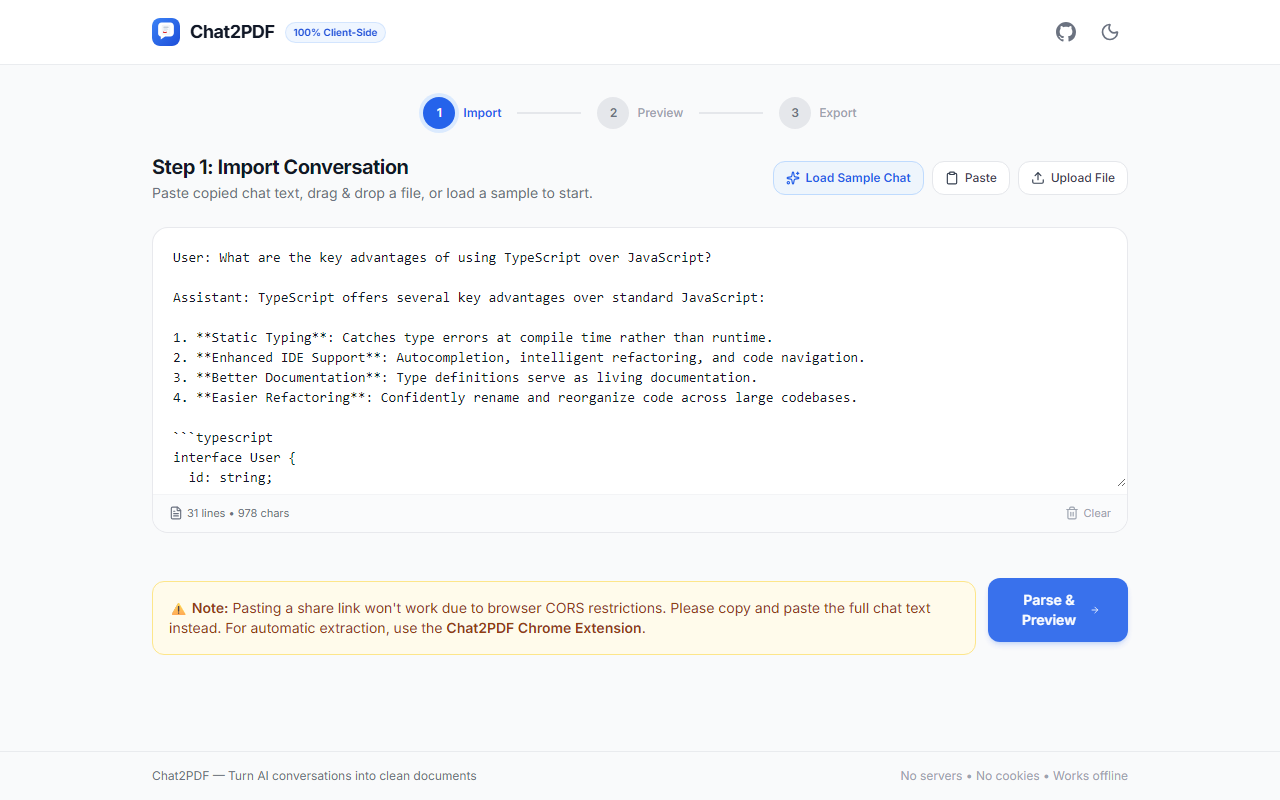
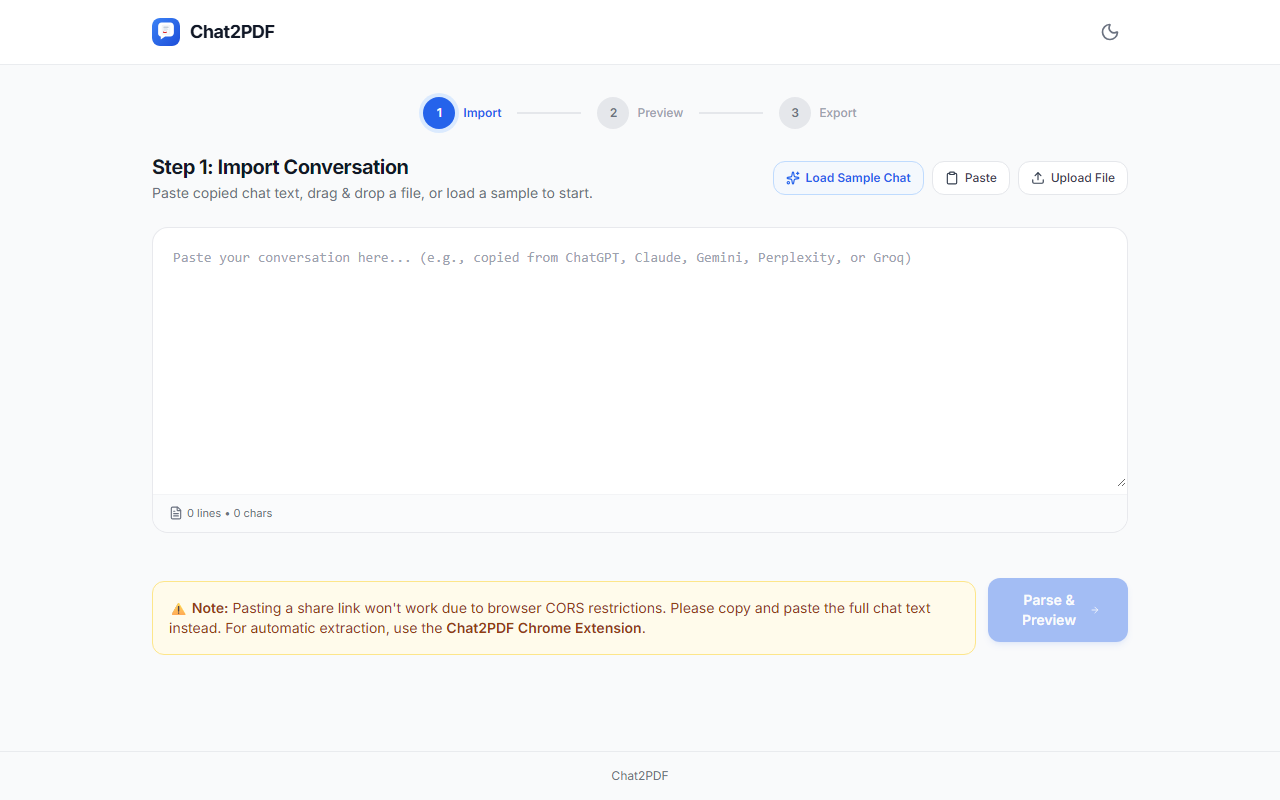
feat(ui): design system tokens and rock-solid dark mode

diff --git a/tests/capture_screenshots.ts b/tests/capture_screenshots.ts
@@ -1,0 +1,96 @@
+import { chromium } from 'playwright';
+import * as path from 'path';
+import * as fs from 'fs';
+
+async function captureScreenshots() {
+  const dir = path.resolve(process.cwd(), 'docs', 'screenshots');
+  if (!fs.existsSync(dir)) {
+    fs.mkdirSync(dir, { recursive: true });
+  }
+
+  const browser = await chromium.launch({ headless: true });
+
+  const viewports = [
+    { name: 'desktop', width: 1280, height: 800 },
+    { name: 'tablet', width: 768, height: 1024 },
+    { name: 'mobile', width: 375, height: 812 },
+  ];
+
+  for (const vp of viewports) {
+    for (const theme of ['light', 'dark']) {
+      const context = await browser.newContext({
+        viewport: { width: vp.width, height: vp.height },
+        colorScheme: theme as 'light' | 'dark',
+      });
+      const page = await context.newPage();
+
+      // Go to app
+      await page.goto('http://localhost:5173', { waitUntil: 'networkidle' });
+
+      // Apply theme if dark
+      if (theme === 'dark') {
+        await page.evaluate(() => {
+          document.documentElement.classList.add('dark');
+          document.documentElement.setAttribute('data-theme', 'dark');
+          localStorage.setItem('chat2pdf-theme', 'dark');
+        });
+        await page.waitForTimeout(200);
+      }
+
+      // Step 1: Input Step
+      await page.screenshot({
+        path: path.join(dir, `step1_input_${vp.name}_${theme}.png`),
+      });
+
+      // Load sample
+      const sampleBtn = page.locator('button:has-text("Load Sample Chat")');
+      await sampleBtn.click();
+      await page.waitForTimeout(300);
+
+      // Parse & Preview
+      const parseBtn = page.locator('button:has-text("Parse & Preview")');
+      await parseBtn.click();
+      await page.waitForTimeout(400);
+
+      // Step 2: Preview Step
+      await page.screenshot({
+        path: path.join(dir, `step2_preview_${vp.name}_${theme}.png`),
+      });
+
+      // Step 3: Export Step
+      const exportStepBtn = page.locator('button:has-text("Choose Format & Export")');
+      await exportStepBtn.click();
+      await page.waitForTimeout(400);
+
+      await page.screenshot({
+        path: path.join(dir, `step3_export_${vp.name}_${theme}.png`),
+      });
+
+      // Also standard 01, 02, 03 for README compatibility
+      if (vp.name === 'desktop' && theme === 'light') {
+        fs.copyFileSync(
+          path.join(dir, `step1_input_${vp.name}_${theme}.png`),
+          path.join(dir, '01-input-step.png')
+        );
+        fs.copyFileSync(
+          path.join(dir, `step2_preview_${vp.name}_${theme}.png`),
+          path.join(dir, '02-preview-step.png')
+        );
+        fs.copyFileSync(
+          path.join(dir, `step3_export_${vp.name}_${theme}.png`),
+          path.join(dir, '03-export-step.png')
+        );
+      }
+
+      await context.close();
+    }
+  }
+
+  console.log('Screenshots generated across 375px, 768px, 1280px in light & dark mode!');
+  await browser.close();
+}
+
+captureScreenshots().catch((err) => {
+  console.error('Screenshot capture failed:', err);
+  process.exit(1);
+});

diff --git a/index.html b/index.html
@@ -7,6 +7,23 @@
     <meta name="theme-color" content="#2563eb" />
     <meta name="description" content="Chat2PDF - Export your AI chat conversations to PDF, DOCX, PPTX, and more locally" />
     <title>Chat2PDF</title>
+    <script>
+      (function() {
+        try {
+          var stored = localStorage.getItem('chat2pdf-theme');
+          var isDark = stored ? (stored === 'dark') : window.matchMedia('(prefers-color-scheme: dark)').matches;
+          if (isDark) {
+            document.documentElement.classList.add('dark');
+            document.documentElement.setAttribute('data-theme', 'dark');
+            document.documentElement.style.colorScheme = 'dark';
+          } else {
+            document.documentElement.classList.remove('dark');
+            document.documentElement.setAttribute('data-theme', 'light');
+            document.documentElement.style.colorScheme = 'light';
+          }
+        } catch (e) {}
+      })();
+    </script>
   </head>
   <body class="bg-gray-50 dark:bg-gray-950 text-gray-900 dark:text-gray-100 min-h-[100dvh] antialiased">
     <div id="root"></div>

diff --git a/src/extension/popup/popup.html b/src/extension/popup/popup.html
@@ -5,8 +5,20 @@
     <meta name="viewport" content="width=device-width, initial-scale=1.0" />
     <title>Chat2PDF</title>
     <link rel="stylesheet" href="./popup.css" />
+    <script>
+      (function() {
+        try {
+          var isDark = window.matchMedia('(prefers-color-scheme: dark)').matches;
+          if (isDark) {
+            document.documentElement.classList.add('dark');
+            document.documentElement.setAttribute('data-theme', 'dark');
+            document.documentElement.style.colorScheme = 'dark';
+          }
+        } catch (e) {}
+      })();
+    </script>
   </head>
-  <body class="bg-gray-50 text-gray-900 m-0 p-0 font-sans antialiased">
+  <body class="bg-gray-50 dark:bg-gray-950 text-gray-900 dark:text-gray-100 m-0 p-0 font-sans antialiased">
     <div id="root"></div>
     <script type="module" src="./popup.tsx"></script>
   </body>

diff --git a/src/web/hooks/useTheme.ts b/src/web/hooks/useTheme.ts
@@ -11,8 +11,12 @@ export function useTheme() {
     const root = document.documentElement;
     if (isDark) {
       root.classList.add('dark');
+      root.setAttribute('data-theme', 'dark');
+      root.style.colorScheme = 'dark';
     } else {
       root.classList.remove('dark');
+      root.setAttribute('data-theme', 'light');
+      root.style.colorScheme = 'light';
     }
     localStorage.setItem('chat2pdf-theme', isDark ? 'dark' : 'light');
   }, [isDark]);

diff --git a/docs/design-system.md b/docs/design-system.md
@@ -1,0 +1,80 @@
+# Chat2PDF Design System
+
+> **Style Profile**: Soft Minimal Productivity  
+> **Primary Color**: Trust Blue `#2563EB` | **Accent**: Amber `#D97706` / Emerald `#059669`  
+> **Background**: Light `#FAFAFA` (Paper `#FFFFFF`) / Dark `#09090B` (Card `#18181B`)  
+> **Typography**: Inter (Body) + JetBrains Mono (Code/Metadata)  
+> **Dark Mode**: Dual `class="dark"` + `data-theme="dark"` with consistent `color-scheme`
+
+---
+
+## 1. Design Principles & Goals
+Chat2PDF is a focused, 100% client-side privacy tool. The interface prioritizes:
+- **Zero Distraction**: Generous whitespace, clean single-column workflow, no marketing noise or unsolicited badges.
+- **Immediate Trust**: Calm, professional slate/blue palette with crisp system typography.
+- **Fidelity**: Exported paper/PDF outputs remain classic white/paper light even when editing in Dark Mode.
+- **Accessibility & Touch**: All interactive touch targets are $\ge 44\text{px}$, with WCAG AA+ contrast ratios ($> 4.5:1$).
+
+---
+
+## 2. Color Palette & Semantic Tokens
+
+### Light Theme
+- **App Background**: `#FAFAFA` (`bg-gray-50`)
+- **Card Surface**: `#FFFFFF` (`bg-white`)
+- **Border Default**: `#E4E4E7` (`border-zinc-200`)
+- **Text Primary**: `#09090B` (`text-zinc-900`)
+- **Text Secondary**: `#52525B` (`text-zinc-600`)
+- **Text Muted**: `#A1A1AA` (`text-zinc-400`)
+- **Primary Brand / Action**: `#2563EB` (`bg-blue-600`, hover `#1D4ED8`)
+- **User Chat Bubble**: `#EFF6FF` (`bg-blue-50/60`, border `#DBEAFE`)
+- **Assistant Chat Bubble**: `#FFFFFF` (`bg-white`, border `#E4E4E7`)
+
+### Dark Theme
+- **App Background**: `#09090B` (`dark:bg-zinc-950`)
+- **Card Surface**: `#18181B` (`dark:bg-zinc-900`)
+- **Border Default**: `#27272A` (`dark:border-zinc-800`)
+- **Text Primary**: `#FAFAFA` (`dark:text-zinc-100`)
+- **Text Secondary**: `#A1A1AA` (`dark:text-zinc-400`)
+- **Text Muted**: `#71717A` (`dark:text-zinc-500`)
+- **Primary Brand / Action**: `#3B82F6` (`dark:bg-blue-600`, hover `#2563EB`)
+- **User Chat Bubble**: `#172554` (`dark:bg-blue-950/40`, border `#1E3A8A`)
+- **Assistant Chat Bubble**: `#18181B` (`dark:bg-zinc-900`, border `#27272A`)
+
+---
+
+## 3. Typography Pairing
+- **Primary UI / Prose**: `Inter, system-ui, -apple-system, sans-serif`
+  - Font weights: 400 (Regular), 500 (Medium), 600 (SemiBold), 700 (Bold)
+- **Monospace / Code Blocks**: `JetBrains Mono, Menlo, monospace`
+  - Font weights: 400 (Code body), 600 (Keywords / headers)
+- **Scale**:
+  - Step Title: `1.25rem` (`20px`), Bold, `-0.02em` tracking
+  - Body Text: `0.875rem` (`14px`), Regular, leading `1.5`
+  - Secondary/Caption: `0.75rem` (`12px`), Regular / Medium
+  - Code / Metadata: `0.75rem` (`12px`), JetBrains Mono
+
+---
+
+## 4. Layout Breakpoints & Stepper Rhythm
+- **Mobile (< 640px)**:
+  - 1-column input area, 2-column format grid.
+  - Sticky bottom action bar (`min-h-[44px]` touch targets) with backdrop blur.
+  - Chat preview bubbles scale down margins while preserving readability.
+- **Tablet (640px – 1024px)**:
+  - 3-column format grid.
+  - Generous card padding (`p-5`).
+- **Desktop (1024px – 1440px)**:
+  - Max container width `max-w-5xl` centered.
+  - 4-column format grid.
+
+---
+
+## 5. Components & Dark Mode Contracts
+1. **Chat Preview**:
+   - Matches standard ChatGPT/Claude style.
+   - User messages aligned right/compact, Assistant messages on left with neutral robot/sparkle icon.
+   - Per-turn include/exclude checkbox toggle.
+   - Syntax highlighted code blocks with language tag.
+2. **Paper Exporters**:
+   - PDF, Word, PPTX, and Handwriting generators ignore dark mode classes and enforce pristine white paper backgrounds (`#FFFFFF` or `#fffef9`).
